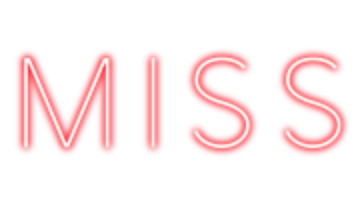
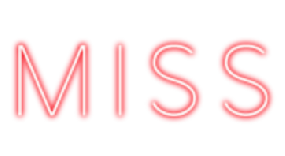
Add score messages

diff --git a/app/src/main/java/me/andrewpeng/cadence/music/Conductor.java b/app/src/main/java/me/andrewpeng/cadence/music/Conductor.java
@@ -14,9 +14,11 @@ import java.util.ArrayList;
 import me.andrewpeng.cadence.core.MainView;
 import me.andrewpeng.cadence.core.Renderer;
 import me.andrewpeng.cadence.managers.AnimatedTextManager;
+import me.andrewpeng.cadence.managers.FadingImageManager;
 import me.andrewpeng.cadence.objects.AnimatedText;
 import me.andrewpeng.cadence.objects.Beatmap;
 import me.andrewpeng.cadence.objects.Combo;
+import me.andrewpeng.cadence.objects.FadingImage;
 import me.andrewpeng.cadence.objects.FadingText;
 import me.andrewpeng.cadence.objects.Note;
 import me.andrewpeng.cadence.objects.Particle;
@@ -25,6 +27,7 @@ import me.andrewpeng.cadence.objects.Score;
 import me.andrewpeng.cadence.objects.ScoreMessage;
 import me.andrewpeng.cadence.objects.ScoreMessageManager;
 import me.andrewpeng.cadence.util.AssetLoader;
+import me.andrewpeng.cadence.util.ImageAsset;
 
 public class Conductor {
     int width, height;
@@ -65,7 +68,6 @@ public class Conductor {
     public static ArrayList<Beatmap> getBeatmapList(){
         return beatmapList;
     }
-
     public double getSongLength(){
         return songLength;
     }
@@ -96,6 +98,9 @@ public class Conductor {
                 if (note.getY1() > height) {
                     activeNotes.remove(note);
                     currentCombo = 0;
+                    FadingImageManager.fadingImages.clear();
+                    new FadingImage(AssetLoader.getImageAssetFromMemory(ImageAsset.SCORE0), Renderer.width / 2, (int) (Renderer.height * 0.6),
+                            0, 15, 10).automate();
                 }
             }
         }
@@ -138,6 +143,7 @@ public class Conductor {
     public void pause(){
         mp.pause();
     }
+
     public void resume(){
         mp.start();
     }
@@ -169,6 +175,8 @@ public class Conductor {
 
         mp.setLooping(true);
         mp.start();
+
+        // Make sure to flag it as the preview
         preview = true;
     }
 
@@ -192,27 +200,14 @@ public class Conductor {
         metronome = new Metronome(this);
         mp.setLooping(false);
         mp.start();
+
+        // Flag playing
         playing = true;
 
-
-        // Test beatmap loading
-//        String name = "popcornfunk";
-//        beatmap = new Beatmap("beatmaps/" + name + "/" + name + ".png", "beatmaps/" + name + "/info.ini", "beatmaps/" + name + "/" + name + ".wav");
     }
 
-    // TODO change note drawing to be handled in renderer
-    public void render(Canvas graphics, Paint paint){
-//        if (playing){
-//            paint.setStyle(Paint.Style.FILL);
-//            paint.setColor(Color.WHITE);
-//            for (Note note : activeNotes){
-//                paint.setAlpha(note.getAlpha());
-//                graphics.drawRect(new Rect(note.getX1(), note.getY1(), note.getX2(), note.getY2()), paint);
-//                paint.setAlpha(255);
-//            }
-//            paint.setStyle(Paint.Style.STROKE);
-//        }
-    }
+    // Note drawing is now handled in renderer
+    public void render(Canvas graphics, Paint paint){}
 
 
     // Spawns a note within a lane
@@ -243,20 +238,59 @@ public class Conductor {
                 if (MainView.inBounds((int) e.getX(pointerIndex), (int) e.getX(pointerIndex), (int) e.getY(pointerIndex), (int) e.getY(pointerIndex),
                         note.getX1(), note.getX2(), note.getPadY1(), note.getPadY2())){
 
-                    int pad0 = (int) (Math.abs(Renderer.scoreY2 - Renderer.scoreY1) * 0.35);
-                    // Note within score area (0.3 padding timing window)
+                    int pad0 = (int) (Math.abs(Renderer.scoreY2 - Renderer.scoreY1) * 0.4);
+
+                    // Note within score area (0.4 padding timing window)
                     if (scoreArea(note,pad0)) {
-                        note.fadeOut(15);
-                        // TODO: Fix bug where two is actually added when one note is hit and another empty space is hit
-                        if (pointerIndex == 0){
+
+                        // Check if fading (repetition check due to random multi touch bug)
+                        if (!note.fading){
+
+                            // Calculate overlap percentage
+                            double overlap = scorePercentage(note,pad0);
+
+                            note.fadeOut(15);
+
+                            // Add combo
                             currentCombo++;
+
+                            // Display combo if above 6
                             if (currentCombo > 6){
+                                // Clear previous combo text
                                 for (AnimatedText text : AnimatedTextManager.texts){
                                     if (text instanceof FadingText){
                                         text.destroy();
                                     }
                                 }
-                                new FadingText("Combo: " + currentCombo, Renderer.width / 2, Renderer.height / 2, 18, Color.WHITE, 12, 15);
+
+                                // Make it green if they have a high combo (100+)
+                                int color = Color.WHITE;
+                                if (currentCombo >= 100){
+                                    color = Color.GREEN;
+                                }
+
+                                new FadingText("Combo: " + currentCombo, Renderer.width / 2, Renderer.height / 2, 18, color, 12, 15);
+                            }
+
+                            // Clear any previous fading images (perfect, great, good, miss)
+                            FadingImageManager.fadingImages.clear();
+
+                            // Add score and show rating for each note
+                            // 0 - 80% overlap, 150 points
+                            if (overlap > 0 && overlap <= 0.8){
+                                currentScore += 150;
+                                new FadingImage(AssetLoader.getImageAssetFromMemory(ImageAsset.SCORE100), Renderer.width / 2, (int) (Renderer.height * 0.6),
+                                        0, 15, 10).automate();
+
+                            }else if (overlap > 0.8 && overlap <= 0.92){ // 80 - 92% overlap, 250 points
+                                currentScore += 250;
+                                new FadingImage(AssetLoader.getImageAssetFromMemory(ImageAsset.SCORE200), Renderer.width / 2, (int) (Renderer.height * 0.6),
+                                        0, 15, 10).automate();
+
+                            }else if (overlap > 0.92 && overlap <= 1){ // 92% - 100% overlap, 300 points
+                                currentScore += 300;
+                                new FadingImage(AssetLoader.getImageAssetFromMemory(ImageAsset.SCORE300), Renderer.width / 2, (int) (Renderer.height * 0.6),
+                                        0, 15, 10).automate();
                             }
                         }
                     }
@@ -268,5 +302,9 @@ public class Conductor {
 
     public static boolean scoreArea(Note note, int pad) {
         return MainView.inBounds(note.getX1(), note.getX2(), note.getY1(), note.getY2(), Renderer.scoreX1, Renderer.scoreX2, Renderer.scoreY1 - pad, Renderer.scoreY2 + pad);
+}
+    public static double scorePercentage(Note note, int pad){
+        return MainView.overlapPercent(note.getX1(), note.getX2(), note.getY1(), note.getY2(), Renderer.scoreX1, Renderer.scoreX2, Renderer.scoreY1, Renderer.scoreY2);
+
     }
 }

diff --git a/app/src/main/java/me/andrewpeng/cadence/objects/FadingImage.java b/app/src/main/java/me/andrewpeng/cadence/objects/FadingImage.java
@@ -10,9 +10,22 @@ import me.andrewpeng.cadence.managers.FadingImageManager;
 
 public class FadingImage extends Entity{
     public Bitmap bitmap;
+    public boolean fadingIn = false;
+    private int counter = 0;
+    private int duration;
+    private int fadeTicks;
+    public FadingImage(Bitmap bitmap, int x, int y, int startingAlpha, int duration, int fadeTicks){
+        super(x, y, startingAlpha);
+        this.bitmap = bitmap;
+        this.duration = duration;
+        this.fadeTicks = fadeTicks;
+        FadingImageManager.fadingImages.add(this);
+    }
     public FadingImage(Bitmap bitmap, int x, int y, int startingAlpha){
         super(x, y, startingAlpha);
         this.bitmap = bitmap;
+        this.duration = 0;
+        this.fadeTicks = 0;
         FadingImageManager.fadingImages.add(this);
     }
 
@@ -21,5 +34,32 @@ public class FadingImage extends Entity{
         paint.setAlpha(super.alpha);
         Renderer.centerBitmap(bitmap, graphics, x, y, paint);
         paint.setAlpha(oldAlpha);
+    }
+    @Override
+    public void tick(){
+        super.tick();
+        if (fadingIn){
+            if (super.alpha == super.maxAlpha){
+                counter++;
+                if (counter == duration){
+                    super.fadeOut(fadeTicks);
+                    counter = 0;
+                    fadingIn = false;
+                }
+            }
+        }else{
+            counter++;
+            if (counter == fadeTicks){
+                FadingImageManager.fadingImages.remove(this);
+            }
+        }
+
+    }
+    public void destroy(){
+        FadingImageManager.fadingImages.remove(this);
+    }
+    public void automate(){
+        fadingIn = true;
+        super.fadeIn(fadeTicks);
     }
 }

diff --git a/app/src/main/java/me/andrewpeng/cadence/objects/FadingText.java b/app/src/main/java/me/andrewpeng/cadence/objects/FadingText.java
@@ -28,16 +28,21 @@ public class FadingText extends AnimatedText{
     @Override
     public void tick(){
         super.tick();
+        // Check if fading (should always be)
         if (fadingIn){
+            // Since it's started fading in, check if it has reached its max alpha
             if (super.alpha == super.maxAlpha){
+                // Increment the counter until it hits its duration
                 counter++;
                 if (counter == duration){
+                    // Start the fade out process, change fadingIn flag
                     super.fadeOut(fadeTicks);
                     counter = 0;
                     fadingIn = false;
                 }
             }
         }else{
+            // Remove once done fading out
             counter++;
             if (counter == fadeTicks){
                 AnimatedTextManager.texts.remove(this);

diff --git a/app/src/main/java/me/andrewpeng/cadence/core/MainView.java b/app/src/main/java/me/andrewpeng/cadence/core/MainView.java
@@ -139,6 +139,16 @@ public class MainView extends View implements GestureDetector.OnGestureListener 
     public static boolean inBounds(int x1, int x2, int y1, int y2, int ax1, int ax2, int ay1, int ay2){
         return x1 >= ax1 && x1 <= ax2 && y1 >= ay1 && y1 <= ay2 && x2 > ax1 && x2 < ax2 && y2 >= ay1 && y2 <= ay2;
     }
+    public static double overlapPercent(int x1, int x2, int y1, int y2, int ax1, int ax2, int ay1, int ay2){
+
+        // Calculate overlap percentage using areas
+        double areaOverlap = (Math.max(x1, ax1) - Math.min(x2, ax2)) * (Math.max(y1,ay1) - Math.min(y2, ay2));
+        double selfArea = (x2 - x1) * (y2 - y1);
+        if (selfArea > 0){
+            return areaOverlap / selfArea;
+        }
+        return -1;
+    }
 
 
     @Override

diff --git a/app/src/main/java/me/andrewpeng/cadence/core/Renderer.java b/app/src/main/java/me/andrewpeng/cadence/core/Renderer.java
@@ -193,7 +193,7 @@ public class Renderer {
                 }
 
                 //Score Value
-                centerText(Score.getScore() + "", graphics,width/2,height/16,paint,15,Color.WHITE, 255);
+                centerText(Conductor.currentScore + "", graphics,width/2,height/16,paint,16,Color.WHITE, 255);
                 break;
         }
 

diff --git a/app/src/main/java/me/andrewpeng/cadence/objects/Note.java b/app/src/main/java/me/andrewpeng/cadence/objects/Note.java
@@ -7,7 +7,7 @@ public class Note {
     private int x1, y1, x2, y2, speed;
     private int boundY1, boundY2;
     private int alpha;
-    boolean fading = false;
+    public boolean fading = false;
     private int fadeTick = 0, maxFadeTicks = 0;
     public Note(int x1, int y1, int x2, int y2, double yPad, int speed){
         this.x1 = x1;
